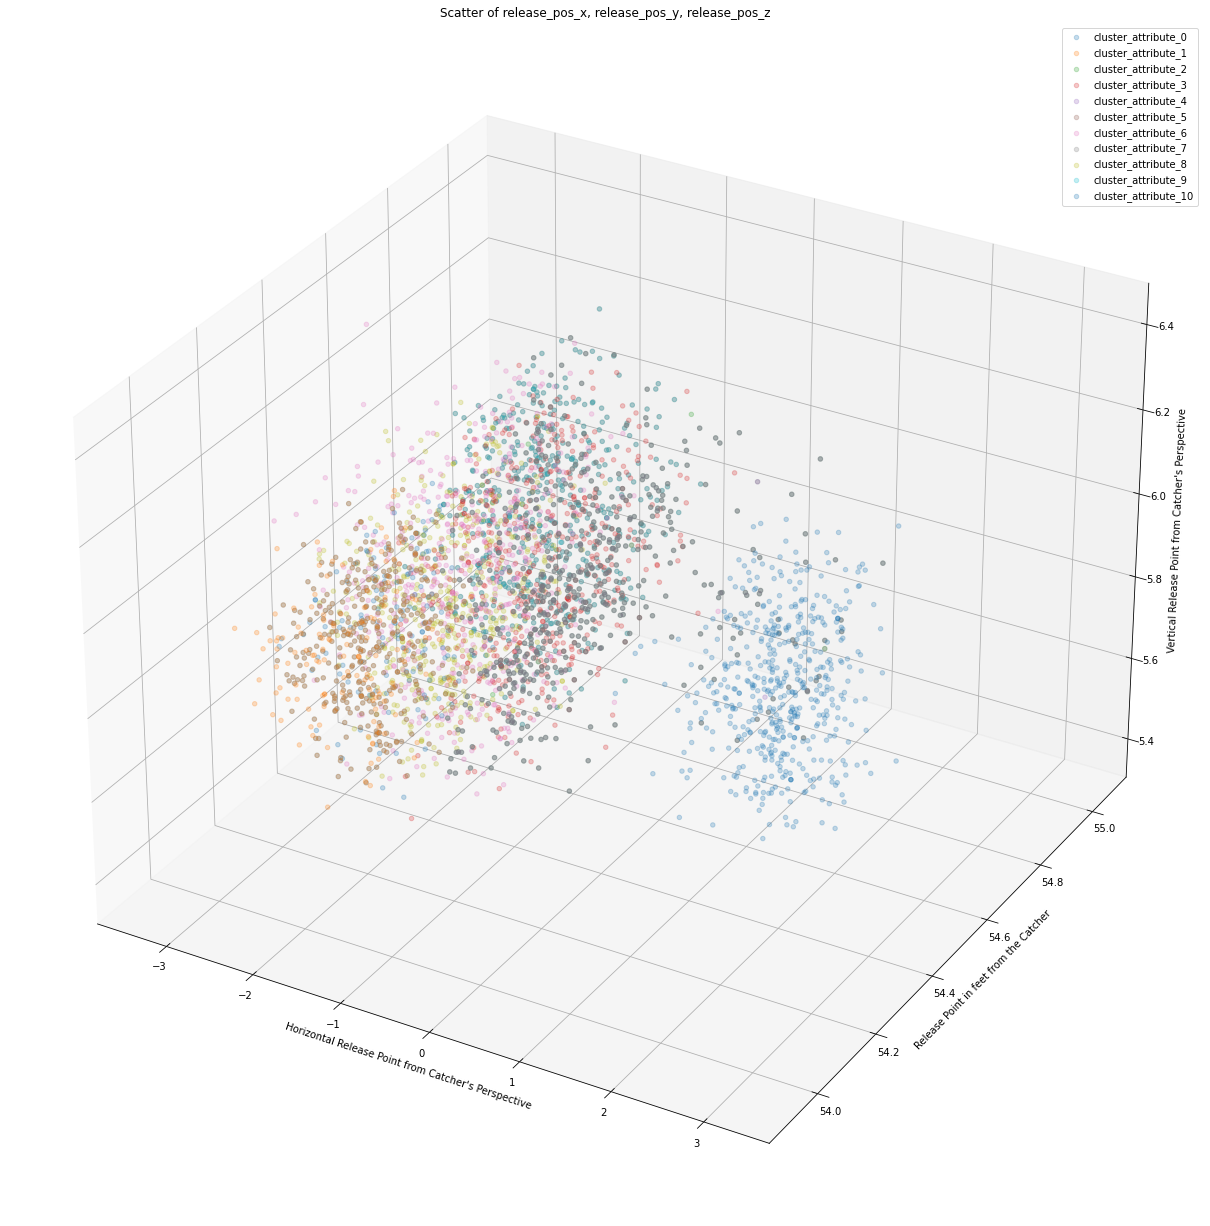
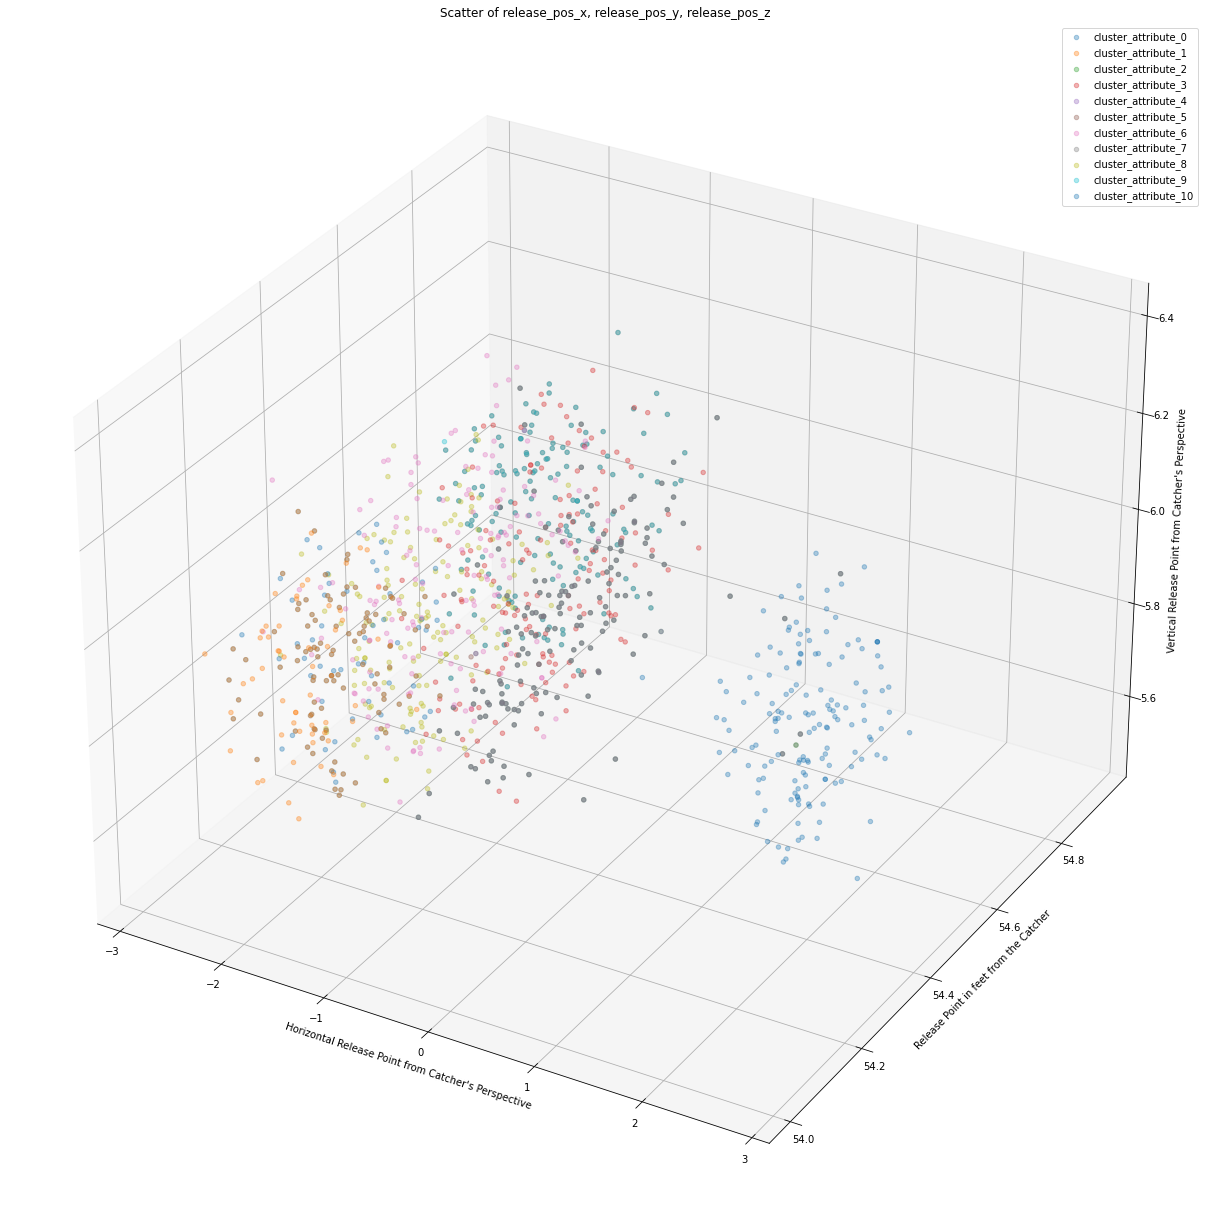
plot_update

diff --git a/libs/plot_results.py b/libs/plot_results.py
@@ -39,7 +39,7 @@ def cluster_plots(cluster_plots_obj):
         cluster_plots_obj.scatter_2d(item[0],item[1])
 
 class ClusterPlots():
-    def __init__(self):
+    def __init__(self,n=500,alpha=0.25):
         self.data = None
         self.cluster_cols = None # the cluster defining columns
         self.pitch_features = ['release_speed','release_pos_x','release_pos_z',
@@ -50,7 +50,8 @@ class ClusterPlots():
         self.retrieve_data()
         self.define_cols()
         self.clusters_close = {} # n closest points for each cluster
-        n = 500 # The number of pitches closest to cluster center used in plots
+        self.alpha = alpha # opacity of scatterplots
+        n = n # The number of pitches closest to cluster center used in plots
         for atr in self.cluster_cols:
             self.clusters_close[atr] = self.data.nlargest(n,atr)
         
@@ -60,7 +61,7 @@ class ClusterPlots():
         ax = fig.add_subplot(111)    
         for i in range(0,len(self.cluster_cols)):
             df_temp = self.clusters_close[self.cluster_cols[i]]
-            ax.scatter(df_temp[x],df_temp[y],label=self.cluster_cols[i],alpha=0.25)
+            ax.scatter(df_temp[x],df_temp[y],label=self.cluster_cols[i],alpha=self.alpha)
             ax.set_xlabel(self.rename_var(x))
             ax.set_ylabel(self.rename_var(y))
             ax.set_title("Scatter of " + x + ", " + y)    
@@ -72,11 +73,11 @@ class ClusterPlots():
     # saves a 3d-scatterplot, separating clusters by color
     def scatter_3d(self,x,y,z):
         fig = plt.figure(figsize=(27, 22))
-        plt.title = ("Scatter of " + str(x) + ", " + str(y) + ", " + str(z))
+        #plt.title = ("Scatter of " + str(x) + ", " + str(y) + ", " + str(z))
         ax = fig.add_subplot(111, projection='3d')
         for i in range(0,len(self.cluster_cols)):
             df_temp = self.clusters_close[self.cluster_cols[i]]
-            ax.scatter(df_temp[x],df_temp[y],df_temp[z],label=self.cluster_cols[i],alpha=0.25)
+            ax.scatter(df_temp[x],df_temp[y],df_temp[z],label=self.cluster_cols[i],alpha=self.alpha)
             ax.set_xlabel(self.rename_var(x))
             ax.set_ylabel(self.rename_var(y))
             ax.set_zlabel(self.rename_var(z))

diff --git a/create_visuals.py b/create_visuals.py
@@ -15,5 +15,5 @@ eval_table = pr.ResultsTable()
 eval_table.all_results()
 eval_table.save_table()
 
-clust_plots = pr.ClusterPlots()
+clust_plots = pr.ClusterPlots(n=150,alpha=0.35)
 pr.cluster_plots(clust_plots)
